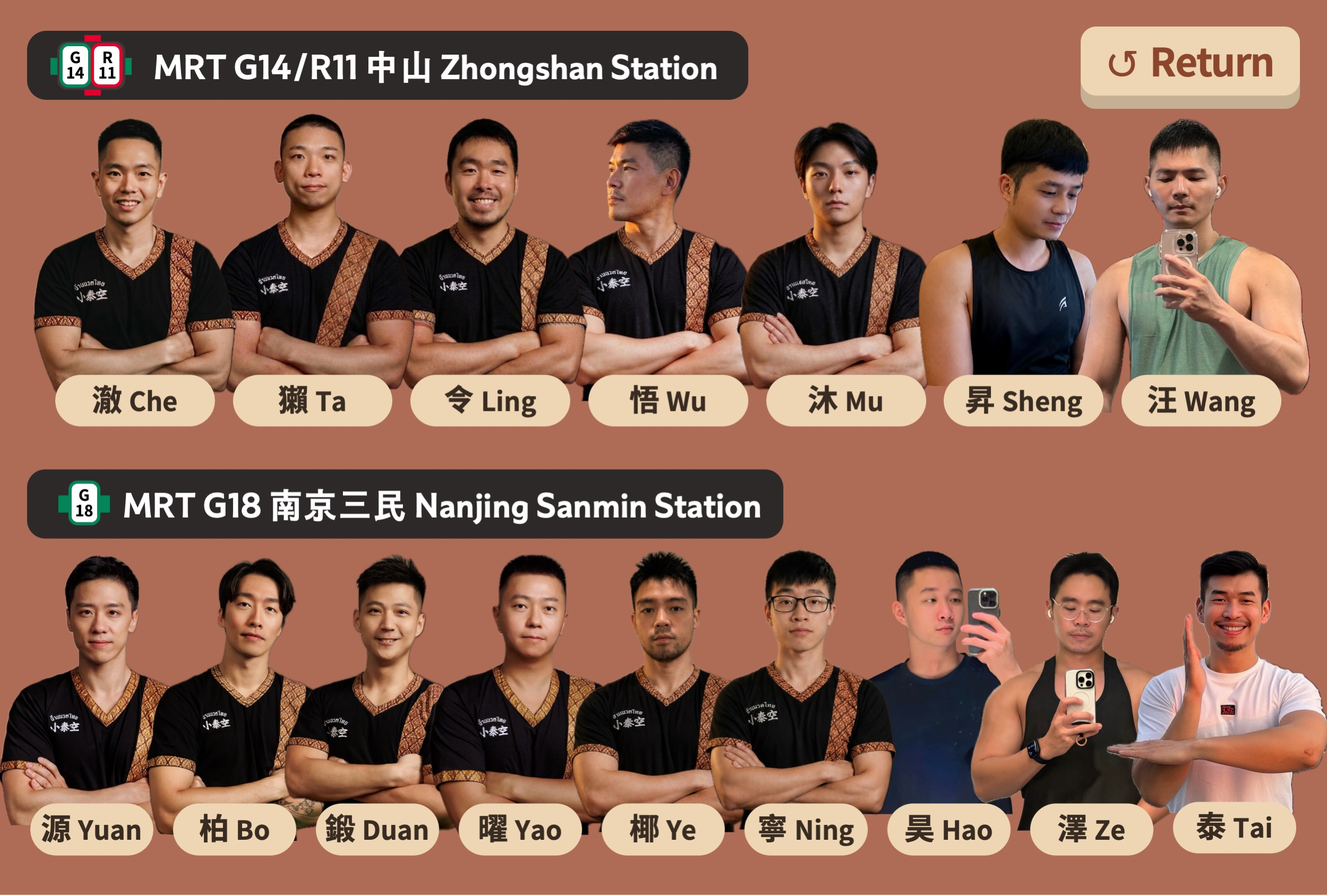
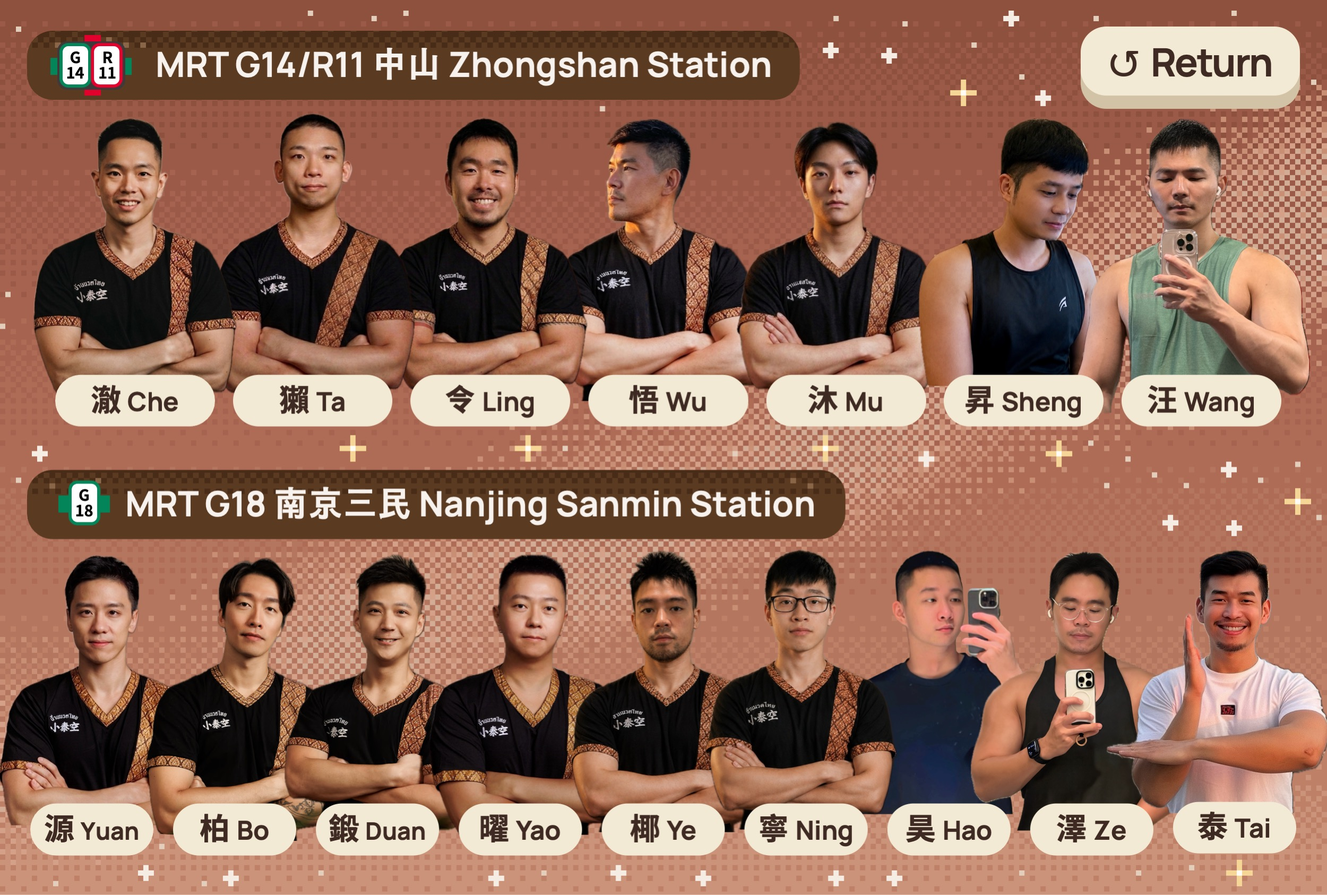
2026-11-23 儀表板新配色 v11：空位儀表板大卡、分店按鈕移至底部
分店頁的非本店按鈕（灰色）改為切換到該分店分頁。

diff --git a/index.html b/index.html
@@ -59,11 +59,11 @@
 </head>
 <body>
 <div class="wrap">
-<div class="page" id="p1"><img src="page1.jpg" alt="主選單"><a class="spot" style="left:2.400%;top:13.345%;width:17.040%;height:34.045%" href="https://nick810303.github.io/spacethai_FAQ/" target="_blank" rel="noopener"></a><a class="spot" style="left:21.840%;top:13.286%;width:17.040%;height:34.045%" href="https://line.me/R/oaMessage/%40270vnkfr/?%E5%84%AA%E6%83%A0%E6%87%B6%E4%BA%BA%E5%8C%85" data-msg="優惠懶人包" title="優惠懶人包"></a><a class="spot" style="left:41.120%;top:13.464%;width:17.040%;height:34.045%" href="https://line.me/R/oaMessage/%40270vnkfr/?%E6%9C%8D%E5%8B%99%E9%A0%85%E7%9B%AE" data-msg="服務項目" title="服務項目"></a><a class="spot" style="left:60.560%;top:13.286%;width:17.040%;height:34.045%" href="https://line.me/R/oaMessage/%40270vnkfr/?%E9%A0%90%E7%B4%84%E9%A0%88%E7%9F%A5" data-msg="預約須知" title="預約須知"></a><a class="spot" style="left:80.120%;top:13.286%;width:17.040%;height:34.045%" href="https://line.me/R/oaMessage/%40270vnkfr/?%E9%97%9C%E6%96%BC%E5%B0%8F%E6%B3%B0%E7%A9%BA" data-msg="關於小泰空" title="關於小泰空"></a><a class="spot" style="left:2.560%;top:50.652%;width:18.240%;height:12.218%" href="https://liff.line.me/2007603682-rDEPkdA2/a33MS6uxvrwXxin2jHTk4N/record" target="_blank" rel="noopener"></a><a class="spot" style="left:20.560%;top:50.474%;width:18.240%;height:12.218%" href="https://nick810303.github.io/spacethai_manual/?openExternalBrowser=1" target="_blank" rel="noopener"></a><a class="spot" style="left:11.480%;top:62.574%;width:27.400%;height:17.912%" href="https://liff.line.me/2007603682-rDEPkdA2/a33MS6uxvrwXxin2jHTk4N/menu" target="_blank" rel="noopener"></a><a class="spot" style="left:41.160%;top:50.119%;width:28.160%;height:32.444%" href="https://line.me/R/oaMessage/%40270vnkfr/?%E5%B0%8F%E6%B3%B0%E7%A9%BA%EF%BC%8E%E4%B8%AD%E5%B1%B1" data-msg="小泰空．中山" title="小泰空．中山"></a><a class="spot" style="left:69.280%;top:50.059%;width:27.480%;height:32.444%" href="https://line.me/R/oaMessage/%40270vnkfr/?%E5%B0%8F%E6%B3%B0%E7%A9%BA%EF%BC%8E%E5%8D%97%E4%BA%AC%E4%B8%89%E6%B0%91" data-msg="小泰空．南京三民" title="小泰空．南京三民"></a><a class="spot" style="left:0.000%;top:0.000%;width:29.080%;height:10.854%" href="#p1" onclick="show(1);return false" aria-label="切換頁面"></a><a class="spot" style="left:29.200%;top:0.000%;width:29.800%;height:10.854%" href="#p2" onclick="show(2);return false" aria-label="切換頁面"></a><a class="spot" style="left:58.840%;top:0.000%;width:29.720%;height:10.854%" href="#p3" onclick="show(3);return false" aria-label="切換頁面"></a><a class="spot" style="left:88.600%;top:0.000%;width:11.240%;height:10.854%" href="#p4" onclick="show(4);return false" aria-label="切換頁面"></a><a class="spot" style="left:20.080%;top:85.172%;width:76.760%;height:10.083%" href="https://liff.line.me/2009610906-9zraEtAy" target="_blank" rel="noopener"></a></div>
-<div class="page" id="p2"><img src="page2.jpg" alt="中山"><a class="spot" style="left:2.680%;top:12.337%;width:13.880%;height:35.706%" href="https://line.me/R/oaMessage/%40270vnkfr/?%E9%97%9C%E6%96%BC%E6%BE%88%E8%80%81%E5%B8%AB" data-msg="關於澈老師" title="關於澈老師"></a><a class="spot" style="left:16.680%;top:12.040%;width:12.280%;height:35.706%" href="https://line.me/R/oaMessage/%40270vnkfr/?%E9%97%9C%E6%96%BC%E7%8D%BA%E8%80%81%E5%B8%AB" data-msg="關於獺老師" title="關於獺老師"></a><a class="spot" style="left:29.240%;top:12.100%;width:13.120%;height:35.706%" href="https://line.me/R/oaMessage/%40270vnkfr/?%E9%97%9C%E6%96%BC%E4%BB%A4%E8%80%81%E5%B8%AB" data-msg="關於令老師" title="關於令老師"></a><a class="spot" style="left:42.400%;top:12.040%;width:13.120%;height:35.706%" href="https://line.me/R/oaMessage/%40270vnkfr/?%E9%97%9C%E6%96%BC%E6%82%9F%E8%80%81%E5%B8%AB" data-msg="關於悟老師" title="關於悟老師"></a><a class="spot" style="left:55.400%;top:11.862%;width:13.120%;height:35.706%" href="https://line.me/R/oaMessage/%40270vnkfr/?%E9%97%9C%E6%96%BC%E6%B2%90%E8%80%81%E5%B8%AB" data-msg="關於沐老師" title="關於沐老師"></a><a class="spot" style="left:2.560%;top:50.652%;width:18.240%;height:12.218%" href="https://liff.line.me/2007603682-rDEPkdA2/a33MS6uxvrwXxin2jHTk4N/record" target="_blank" rel="noopener"></a><a class="spot" style="left:20.560%;top:50.474%;width:18.240%;height:12.218%" href="https://nick810303.github.io/spacethai_manual/?openExternalBrowser=1" target="_blank" rel="noopener"></a><a class="spot" style="left:11.480%;top:62.574%;width:27.400%;height:17.912%" href="https://liff.line.me/2007603682-rDEPkdA2/a33MS6uxvrwXxin2jHTk4N/menu" target="_blank" rel="noopener"></a><a class="spot" style="left:41.160%;top:50.119%;width:28.160%;height:32.444%" href="https://line.me/R/oaMessage/%40270vnkfr/?%E5%B0%8F%E6%B3%B0%E7%A9%BA%EF%BC%8E%E4%B8%AD%E5%B1%B1" data-msg="小泰空．中山" title="小泰空．中山"></a><a class="spot" style="left:0.000%;top:0.000%;width:29.080%;height:10.854%" href="#p1" onclick="show(1);return false" aria-label="切換頁面"></a><a class="spot" style="left:29.200%;top:0.000%;width:29.800%;height:10.854%" href="#p2" onclick="show(2);return false" aria-label="切換頁面"></a><a class="spot" style="left:58.840%;top:0.000%;width:29.720%;height:10.854%" href="#p3" onclick="show(3);return false" aria-label="切換頁面"></a><a class="spot" style="left:88.600%;top:0.000%;width:11.240%;height:10.854%" href="#p4" onclick="show(4);return false" aria-label="切換頁面"></a><a class="spot" style="left:20.080%;top:85.172%;width:76.760%;height:10.083%" href="https://liff.line.me/2009610906-9zraEtAy" target="_blank" rel="noopener"></a><a class="spot" style="left:68.720%;top:11.862%;width:14.760%;height:35.587%" href="https://line.me/R/oaMessage/%40270vnkfr/?%E9%97%9C%E6%96%BC%E6%98%87%E8%80%81%E5%B8%AB" data-msg="關於昇老師" title="關於昇老師"></a><a class="spot" style="left:83.640%;top:11.922%;width:14.760%;height:35.587%" href="https://line.me/R/oaMessage/%40270vnkfr/?%E9%97%9C%E6%96%BC%E6%B1%AA%E8%80%81%E5%B8%AB" data-msg="關於汪老師" title="關於汪老師"></a></div>
-<div class="page" id="p3"><img src="page3.jpg" alt="南京三民"><a class="spot" style="left:0.280%;top:11.981%;width:12.160%;height:35.706%" href="https://line.me/R/oaMessage/%40270vnkfr/?%E9%97%9C%E6%96%BC%E6%BA%90%E8%80%81%E5%B8%AB" data-msg="關於源老師" title="關於源老師"></a><a class="spot" style="left:12.440%;top:12.040%;width:10.680%;height:35.706%" href="https://line.me/R/oaMessage/%40270vnkfr/?%E9%97%9C%E6%96%BC%E6%9F%8F%E8%80%81%E5%B8%AB" data-msg="關於柏老師" title="關於柏老師"></a><a class="spot" style="left:23.320%;top:12.278%;width:10.240%;height:35.706%" href="https://line.me/R/oaMessage/%40270vnkfr/?%E9%97%9C%E6%96%BC%E9%8D%9B%E8%80%81%E5%B8%AB" data-msg="關於鍛老師" title="關於鍛老師"></a><a class="spot" style="left:33.800%;top:12.100%;width:10.600%;height:35.706%" href="https://line.me/R/oaMessage/%40270vnkfr/?%E9%97%9C%E6%96%BC%E6%9B%9C%E8%80%81%E5%B8%AB" data-msg="關於曜老師" title="關於曜老師"></a><a class="spot" style="left:44.600%;top:11.862%;width:10.640%;height:35.706%" href="https://line.me/R/oaMessage/%40270vnkfr/?%E9%97%9C%E6%96%BC%E6%A4%B0%E8%80%81%E5%B8%AB" data-msg="關於椰老師" title="關於椰老師"></a><a class="spot" style="left:55.360%;top:11.922%;width:10.600%;height:35.706%" href="https://line.me/R/oaMessage/%40270vnkfr/?%E9%97%9C%E6%96%BC%E5%AF%A7%E8%80%81%E5%B8%AB" data-msg="關於寧老師" title="關於寧老師"></a><a class="spot" style="left:66.160%;top:11.684%;width:10.520%;height:35.706%" href="https://line.me/R/oaMessage/%40270vnkfr/?%E9%97%9C%E6%96%BC%E6%98%8A%E8%80%81%E5%B8%AB" data-msg="關於昊老師" title="關於昊老師"></a><a class="spot" style="left:2.560%;top:50.652%;width:18.240%;height:12.218%" href="https://liff.line.me/2007603682-rDEPkdA2/a33MS6uxvrwXxin2jHTk4N/record" target="_blank" rel="noopener"></a><a class="spot" style="left:20.560%;top:50.474%;width:18.240%;height:12.218%" href="https://nick810303.github.io/spacethai_manual/?openExternalBrowser=1" target="_blank" rel="noopener"></a><a class="spot" style="left:11.480%;top:62.574%;width:27.400%;height:17.912%" href="https://liff.line.me/2007603682-rDEPkdA2/a33MS6uxvrwXxin2jHTk4N/menu" target="_blank" rel="noopener"></a><a class="spot" style="left:69.000%;top:50.237%;width:28.160%;height:32.444%" href="https://line.me/R/oaMessage/%40270vnkfr/?%E5%B0%8F%E6%B3%B0%E7%A9%BA%EF%BC%8E%E5%8D%97%E4%BA%AC%E4%B8%89%E6%B0%91" data-msg="小泰空．南京三民" title="小泰空．南京三民"></a><a class="spot" style="left:0.000%;top:0.000%;width:29.080%;height:10.854%" href="#p1" onclick="show(1);return false" aria-label="切換頁面"></a><a class="spot" style="left:29.200%;top:0.000%;width:29.800%;height:10.854%" href="#p2" onclick="show(2);return false" aria-label="切換頁面"></a><a class="spot" style="left:58.840%;top:0.000%;width:29.720%;height:10.854%" href="#p3" onclick="show(3);return false" aria-label="切換頁面"></a><a class="spot" style="left:88.600%;top:0.000%;width:11.240%;height:10.854%" href="#p4" onclick="show(4);return false" aria-label="切換頁面"></a><a class="spot" style="left:77.000%;top:11.329%;width:10.360%;height:35.884%" href="https://line.me/R/oaMessage/%40270vnkfr/?%E9%97%9C%E6%96%BC%E6%BE%A4%E8%80%81%E5%B8%AB" data-msg="關於澤老師" title="關於澤老師"></a><a class="spot" style="left:87.640%;top:11.151%;width:11.920%;height:35.884%" href="https://line.me/R/oaMessage/%40270vnkfr/?%E9%97%9C%E6%96%BC%E6%B3%B0%E8%80%81%E5%B8%AB" data-msg="關於泰老師" title="關於泰老師"></a><a class="spot" style="left:20.680%;top:85.172%;width:76.760%;height:10.083%" href="https://liff.line.me/2009610906-9zraEtAy" target="_blank" rel="noopener"></a></div>
-<div class="page" id="p4"><img src="page4.jpg" alt="English"><a class="spot" style="left:2.400%;top:13.345%;width:17.040%;height:34.045%" href="https://nick810303.github.io/spacethai_FAQ/?lang=en" target="_blank" rel="noopener"></a><a class="spot" style="left:21.840%;top:13.286%;width:17.040%;height:34.045%" href="https://line.me/R/oaMessage/%40270vnkfr/?Savings" data-msg="Savings" title="Savings"></a><a class="spot" style="left:41.120%;top:13.464%;width:17.040%;height:34.045%" href="https://line.me/R/oaMessage/%40270vnkfr/?Service" data-msg="Service" title="Service"></a><a class="spot" style="left:60.560%;top:13.286%;width:17.040%;height:34.045%" href="#p5" onclick="show(5);return false" aria-label="切換頁面"></a><a class="spot" style="left:80.120%;top:13.286%;width:17.040%;height:34.045%" href="https://line.me/R/oaMessage/%40270vnkfr/?About" data-msg="About" title="About"></a><a class="spot" style="left:2.560%;top:50.652%;width:18.240%;height:12.218%" href="https://liff.line.me/2007603682-rDEPkdA2/a33MS6uxvrwXxin2jHTk4N/record" target="_blank" rel="noopener"></a><a class="spot" style="left:20.560%;top:50.474%;width:18.240%;height:12.218%" href="https://nick810303.github.io/spacethai_manual/?lang=en&amp;openExternalBrowser=1" target="_blank" rel="noopener"></a><a class="spot" style="left:11.480%;top:62.574%;width:27.400%;height:17.912%" href="https://liff.line.me/2007603682-rDEPkdA2/a33MS6uxvrwXxin2jHTk4N/menu" target="_blank" rel="noopener"></a><a class="spot" style="left:41.160%;top:50.237%;width:28.160%;height:32.444%" href="https://line.me/R/oaMessage/%40270vnkfr/?Zhongshan" data-msg="Zhongshan" title="Zhongshan"></a><a class="spot" style="left:69.200%;top:50.178%;width:27.480%;height:32.444%" href="https://line.me/R/oaMessage/%40270vnkfr/?Nanjing%20Sanmin" data-msg="Nanjing Sanmin" title="Nanjing Sanmin"></a><a class="spot" style="left:0.000%;top:0.000%;width:29.080%;height:10.854%" href="#p1" onclick="show(1);return false" aria-label="切換頁面"></a><a class="spot" style="left:29.200%;top:0.000%;width:29.800%;height:10.854%" href="#p2" onclick="show(2);return false" aria-label="切換頁面"></a><a class="spot" style="left:58.840%;top:0.000%;width:29.720%;height:10.854%" href="#p3" onclick="show(3);return false" aria-label="切換頁面"></a><a class="spot" style="left:88.600%;top:0.000%;width:11.240%;height:10.854%" href="#p4" onclick="show(4);return false" aria-label="切換頁面"></a></div>
-<div class="page" id="p5"><img src="page5.jpg" alt="Team_en"><a class="spot" style="left:1.360%;top:1.542%;width:56.120%;height:11.507%" href="https://line.me/R/oaMessage/%40270vnkfr/?Zhongshan" data-msg="Zhongshan" title="Zhongshan"></a><a class="spot" style="left:1.320%;top:50.178%;width:58.920%;height:11.507%" href="https://line.me/R/oaMessage/%40270vnkfr/?Nanjing%20Sanmin" data-msg="Nanjing Sanmin" title="Nanjing Sanmin"></a><a class="spot" style="left:2.920%;top:13.108%;width:13.880%;height:35.706%" href="https://line.me/R/oaMessage/%40270vnkfr/?%E9%97%9C%E6%96%BC%E6%BE%88%E8%80%81%E5%B8%AB" data-msg="關於澈老師" title="關於澈老師"></a><a class="spot" style="left:16.920%;top:13.286%;width:12.280%;height:35.706%" href="https://line.me/R/oaMessage/%40270vnkfr/?%E9%97%9C%E6%96%BC%E7%8D%BA%E8%80%81%E5%B8%AB" data-msg="關於獺老師" title="關於獺老師"></a><a class="spot" style="left:29.160%;top:13.108%;width:13.120%;height:35.706%" href="https://line.me/R/oaMessage/%40270vnkfr/?%E9%97%9C%E6%96%BC%E4%BB%A4%E8%80%81%E5%B8%AB" data-msg="關於令老師" title="關於令老師"></a><a class="spot" style="left:42.400%;top:13.167%;width:13.120%;height:35.706%" href="https://line.me/R/oaMessage/%40270vnkfr/?%E9%97%9C%E6%96%BC%E6%82%9F%E8%80%81%E5%B8%AB" data-msg="關於悟老師" title="關於悟老師"></a><a class="spot" style="left:55.560%;top:13.227%;width:13.120%;height:35.706%" href="https://line.me/R/oaMessage/%40270vnkfr/?%E9%97%9C%E6%96%BC%E6%B2%90%E8%80%81%E5%B8%AB" data-msg="關於沐老師" title="關於沐老師"></a><a class="spot" style="left:69.000%;top:13.464%;width:13.920%;height:35.706%" href="https://line.me/R/oaMessage/%40270vnkfr/?%E9%97%9C%E6%96%BC%E6%98%87%E8%80%81%E5%B8%AB" data-msg="關於昇老師" title="關於昇老師"></a><a class="spot" style="left:83.120%;top:13.582%;width:13.920%;height:35.706%" href="https://line.me/R/oaMessage/%40270vnkfr/?%E9%97%9C%E6%96%BC%E6%B1%AA%E8%80%81%E5%B8%AB" data-msg="關於汪老師" title="關於汪老師"></a><a class="spot" style="left:0.680%;top:62.218%;width:11.560%;height:35.706%" href="https://line.me/R/oaMessage/%40270vnkfr/?%E9%97%9C%E6%96%BC%E6%BA%90%E8%80%81%E5%B8%AB" data-msg="關於源老師" title="關於源老師"></a><a class="spot" style="left:12.200%;top:62.278%;width:11.280%;height:35.706%" href="https://line.me/R/oaMessage/%40270vnkfr/?%E9%97%9C%E6%96%BC%E6%9F%8F%E8%80%81%E5%B8%AB" data-msg="關於柏老師" title="關於柏老師"></a><a class="spot" style="left:23.520%;top:61.922%;width:10.160%;height:35.706%" href="https://line.me/R/oaMessage/%40270vnkfr/?%E9%97%9C%E6%96%BC%E9%8D%9B%E8%80%81%E5%B8%AB" data-msg="關於鍛老師" title="關於鍛老師"></a><a class="spot" style="left:33.760%;top:61.744%;width:10.600%;height:35.706%" href="https://line.me/R/oaMessage/%40270vnkfr/?%E9%97%9C%E6%96%BC%E6%9B%9C%E8%80%81%E5%B8%AB" data-msg="關於曜老師" title="關於曜老師"></a><a class="spot" style="left:44.520%;top:61.684%;width:10.760%;height:35.706%" href="https://line.me/R/oaMessage/%40270vnkfr/?%E9%97%9C%E6%96%BC%E6%A4%B0%E8%80%81%E5%B8%AB" data-msg="關於椰老師" title="關於椰老師"></a><a class="spot" style="left:55.320%;top:61.447%;width:10.800%;height:35.706%" href="https://line.me/R/oaMessage/%40270vnkfr/?%E9%97%9C%E6%96%BC%E5%AF%A7%E8%80%81%E5%B8%AB" data-msg="關於寧老師" title="關於寧老師"></a><a class="spot" style="left:78.720%;top:0.000%;width:21.280%;height:13.760%" href="#p4" onclick="show(4);return false" aria-label="切換頁面"></a><a class="spot" style="left:66.400%;top:61.566%;width:10.360%;height:35.409%" href="https://line.me/R/oaMessage/%40270vnkfr/?%E9%97%9C%E6%96%BC%E6%98%8A%E8%80%81%E5%B8%AB" data-msg="關於昊老師" title="關於昊老師"></a><a class="spot" style="left:77.040%;top:61.507%;width:10.360%;height:35.409%" href="https://line.me/R/oaMessage/%40270vnkfr/?%E9%97%9C%E6%96%BC%E6%BE%A4%E8%80%81%E5%B8%AB" data-msg="關於澤老師" title="關於澤老師"></a><a class="spot" style="left:87.920%;top:61.329%;width:10.360%;height:35.409%" href="https://line.me/R/oaMessage/%40270vnkfr/?%E9%97%9C%E6%96%BC%E6%B3%B0%E8%80%81%E5%B8%AB" data-msg="關於泰老師" title="關於泰老師"></a></div>
+<div class="page" id="p1"><img src="page1.jpg" alt="主選單"><a class="spot" style="left:2.400%;top:13.345%;width:17.040%;height:34.045%" href="https://nick810303.github.io/spacethai_FAQ/" target="_blank" rel="noopener"></a><a class="spot" style="left:21.840%;top:13.286%;width:17.040%;height:34.045%" href="https://line.me/R/oaMessage/%40270vnkfr/?%E5%84%AA%E6%83%A0%E6%87%B6%E4%BA%BA%E5%8C%85" data-msg="優惠懶人包" title="優惠懶人包"></a><a class="spot" style="left:41.120%;top:13.464%;width:17.040%;height:34.045%" href="https://line.me/R/oaMessage/%40270vnkfr/?%E6%9C%8D%E5%8B%99%E9%A0%85%E7%9B%AE" data-msg="服務項目" title="服務項目"></a><a class="spot" style="left:60.560%;top:13.286%;width:17.040%;height:34.045%" href="https://line.me/R/oaMessage/%40270vnkfr/?%E9%A0%90%E7%B4%84%E9%A0%88%E7%9F%A5" data-msg="預約須知" title="預約須知"></a><a class="spot" style="left:80.120%;top:13.286%;width:17.040%;height:34.045%" href="https://line.me/R/oaMessage/%40270vnkfr/?%E9%97%9C%E6%96%BC%E5%B0%8F%E6%B3%B0%E7%A9%BA" data-msg="關於小泰空" title="關於小泰空"></a><a class="spot" style="left:2.560%;top:50.652%;width:18.240%;height:12.218%" href="https://liff.line.me/2007603682-rDEPkdA2/a33MS6uxvrwXxin2jHTk4N/record" target="_blank" rel="noopener"></a><a class="spot" style="left:20.560%;top:50.474%;width:18.240%;height:12.218%" href="https://nick810303.github.io/spacethai_manual/?openExternalBrowser=1" target="_blank" rel="noopener"></a><a class="spot" style="left:11.480%;top:62.574%;width:27.400%;height:17.912%" href="https://liff.line.me/2007603682-rDEPkdA2/a33MS6uxvrwXxin2jHTk4N/menu" target="_blank" rel="noopener"></a><a class="spot" style="left:0.000%;top:0.000%;width:29.080%;height:10.854%" href="#p1" onclick="show(1);return false" aria-label="切換頁面"></a><a class="spot" style="left:29.200%;top:0.000%;width:29.800%;height:10.854%" href="#p2" onclick="show(2);return false" aria-label="切換頁面"></a><a class="spot" style="left:58.840%;top:0.000%;width:29.720%;height:10.854%" href="#p3" onclick="show(3);return false" aria-label="切換頁面"></a><a class="spot" style="left:88.600%;top:0.000%;width:11.240%;height:10.854%" href="#p4" onclick="show(4);return false" aria-label="切換頁面"></a><a class="spot" style="left:41.600%;top:49.585%;width:55.360%;height:28.351%" href="https://liff.line.me/2009610906-9zraEtAy" target="_blank" rel="noopener"></a><a class="spot" style="left:22.240%;top:81.613%;width:36.080%;height:13.760%" href="https://line.me/R/oaMessage/%40270vnkfr/?%E5%B0%8F%E6%B3%B0%E7%A9%BA%EF%BC%8E%E4%B8%AD%E5%B1%B1" data-msg="小泰空．中山" title="小泰空．中山"></a><a class="spot" style="left:60.880%;top:81.613%;width:36.080%;height:13.760%" href="https://line.me/R/oaMessage/%40270vnkfr/?%E5%B0%8F%E6%B3%B0%E7%A9%BA%EF%BC%8E%E5%8D%97%E4%BA%AC%E4%B8%89%E6%B0%91" data-msg="小泰空．南京三民" title="小泰空．南京三民"></a></div>
+<div class="page" id="p2"><img src="page2.jpg" alt="中山"><a class="spot" style="left:2.680%;top:12.337%;width:13.880%;height:35.706%" href="https://line.me/R/oaMessage/%40270vnkfr/?%E9%97%9C%E6%96%BC%E6%BE%88%E8%80%81%E5%B8%AB" data-msg="關於澈老師" title="關於澈老師"></a><a class="spot" style="left:16.680%;top:12.040%;width:12.280%;height:35.706%" href="https://line.me/R/oaMessage/%40270vnkfr/?%E9%97%9C%E6%96%BC%E7%8D%BA%E8%80%81%E5%B8%AB" data-msg="關於獺老師" title="關於獺老師"></a><a class="spot" style="left:29.240%;top:12.100%;width:13.120%;height:35.706%" href="https://line.me/R/oaMessage/%40270vnkfr/?%E9%97%9C%E6%96%BC%E4%BB%A4%E8%80%81%E5%B8%AB" data-msg="關於令老師" title="關於令老師"></a><a class="spot" style="left:42.400%;top:12.040%;width:13.120%;height:35.706%" href="https://line.me/R/oaMessage/%40270vnkfr/?%E9%97%9C%E6%96%BC%E6%82%9F%E8%80%81%E5%B8%AB" data-msg="關於悟老師" title="關於悟老師"></a><a class="spot" style="left:55.400%;top:11.862%;width:13.120%;height:35.706%" href="https://line.me/R/oaMessage/%40270vnkfr/?%E9%97%9C%E6%96%BC%E6%B2%90%E8%80%81%E5%B8%AB" data-msg="關於沐老師" title="關於沐老師"></a><a class="spot" style="left:2.560%;top:50.652%;width:18.240%;height:12.218%" href="https://liff.line.me/2007603682-rDEPkdA2/a33MS6uxvrwXxin2jHTk4N/record" target="_blank" rel="noopener"></a><a class="spot" style="left:20.560%;top:50.474%;width:18.240%;height:12.218%" href="https://nick810303.github.io/spacethai_manual/?openExternalBrowser=1" target="_blank" rel="noopener"></a><a class="spot" style="left:11.480%;top:62.574%;width:27.400%;height:17.912%" href="https://liff.line.me/2007603682-rDEPkdA2/a33MS6uxvrwXxin2jHTk4N/menu" target="_blank" rel="noopener"></a><a class="spot" style="left:0.000%;top:0.000%;width:29.080%;height:10.854%" href="#p1" onclick="show(1);return false" aria-label="切換頁面"></a><a class="spot" style="left:29.200%;top:0.000%;width:29.800%;height:10.854%" href="#p2" onclick="show(2);return false" aria-label="切換頁面"></a><a class="spot" style="left:58.840%;top:0.000%;width:29.720%;height:10.854%" href="#p3" onclick="show(3);return false" aria-label="切換頁面"></a><a class="spot" style="left:88.600%;top:0.000%;width:11.240%;height:10.854%" href="#p4" onclick="show(4);return false" aria-label="切換頁面"></a><a class="spot" style="left:68.720%;top:11.862%;width:14.760%;height:35.587%" href="https://line.me/R/oaMessage/%40270vnkfr/?%E9%97%9C%E6%96%BC%E6%98%87%E8%80%81%E5%B8%AB" data-msg="關於昇老師" title="關於昇老師"></a><a class="spot" style="left:83.640%;top:11.922%;width:14.760%;height:35.587%" href="https://line.me/R/oaMessage/%40270vnkfr/?%E9%97%9C%E6%96%BC%E6%B1%AA%E8%80%81%E5%B8%AB" data-msg="關於汪老師" title="關於汪老師"></a><a class="spot" style="left:41.600%;top:49.585%;width:55.360%;height:28.351%" href="https://liff.line.me/2009610906-9zraEtAy" target="_blank" rel="noopener"></a><a class="spot" style="left:22.240%;top:81.613%;width:36.080%;height:13.760%" href="https://line.me/R/oaMessage/%40270vnkfr/?%E5%B0%8F%E6%B3%B0%E7%A9%BA%EF%BC%8E%E4%B8%AD%E5%B1%B1" data-msg="小泰空．中山" title="小泰空．中山"></a><a class="spot" style="left:60.880%;top:81.613%;width:36.080%;height:13.760%" href="#p3" onclick="show(3);return false" aria-label="切換頁面"></a></div>
+<div class="page" id="p3"><img src="page3.jpg" alt="南京三民"><a class="spot" style="left:0.280%;top:11.981%;width:12.160%;height:35.706%" href="https://line.me/R/oaMessage/%40270vnkfr/?%E9%97%9C%E6%96%BC%E6%BA%90%E8%80%81%E5%B8%AB" data-msg="關於源老師" title="關於源老師"></a><a class="spot" style="left:12.440%;top:12.040%;width:10.680%;height:35.706%" href="https://line.me/R/oaMessage/%40270vnkfr/?%E9%97%9C%E6%96%BC%E6%9F%8F%E8%80%81%E5%B8%AB" data-msg="關於柏老師" title="關於柏老師"></a><a class="spot" style="left:23.320%;top:12.278%;width:10.240%;height:35.706%" href="https://line.me/R/oaMessage/%40270vnkfr/?%E9%97%9C%E6%96%BC%E9%8D%9B%E8%80%81%E5%B8%AB" data-msg="關於鍛老師" title="關於鍛老師"></a><a class="spot" style="left:33.800%;top:12.100%;width:10.600%;height:35.706%" href="https://line.me/R/oaMessage/%40270vnkfr/?%E9%97%9C%E6%96%BC%E6%9B%9C%E8%80%81%E5%B8%AB" data-msg="關於曜老師" title="關於曜老師"></a><a class="spot" style="left:44.600%;top:11.862%;width:10.640%;height:35.706%" href="https://line.me/R/oaMessage/%40270vnkfr/?%E9%97%9C%E6%96%BC%E6%A4%B0%E8%80%81%E5%B8%AB" data-msg="關於椰老師" title="關於椰老師"></a><a class="spot" style="left:55.360%;top:11.922%;width:10.600%;height:35.706%" href="https://line.me/R/oaMessage/%40270vnkfr/?%E9%97%9C%E6%96%BC%E5%AF%A7%E8%80%81%E5%B8%AB" data-msg="關於寧老師" title="關於寧老師"></a><a class="spot" style="left:66.160%;top:11.684%;width:10.520%;height:35.706%" href="https://line.me/R/oaMessage/%40270vnkfr/?%E9%97%9C%E6%96%BC%E6%98%8A%E8%80%81%E5%B8%AB" data-msg="關於昊老師" title="關於昊老師"></a><a class="spot" style="left:2.560%;top:50.652%;width:18.240%;height:12.218%" href="https://liff.line.me/2007603682-rDEPkdA2/a33MS6uxvrwXxin2jHTk4N/record" target="_blank" rel="noopener"></a><a class="spot" style="left:20.560%;top:50.474%;width:18.240%;height:12.218%" href="https://nick810303.github.io/spacethai_manual/?openExternalBrowser=1" target="_blank" rel="noopener"></a><a class="spot" style="left:11.480%;top:62.574%;width:27.400%;height:17.912%" href="https://liff.line.me/2007603682-rDEPkdA2/a33MS6uxvrwXxin2jHTk4N/menu" target="_blank" rel="noopener"></a><a class="spot" style="left:0.000%;top:0.000%;width:29.080%;height:10.854%" href="#p1" onclick="show(1);return false" aria-label="切換頁面"></a><a class="spot" style="left:29.200%;top:0.000%;width:29.800%;height:10.854%" href="#p2" onclick="show(2);return false" aria-label="切換頁面"></a><a class="spot" style="left:58.840%;top:0.000%;width:29.720%;height:10.854%" href="#p3" onclick="show(3);return false" aria-label="切換頁面"></a><a class="spot" style="left:88.600%;top:0.000%;width:11.240%;height:10.854%" href="#p4" onclick="show(4);return false" aria-label="切換頁面"></a><a class="spot" style="left:77.000%;top:11.329%;width:10.360%;height:35.884%" href="https://line.me/R/oaMessage/%40270vnkfr/?%E9%97%9C%E6%96%BC%E6%BE%A4%E8%80%81%E5%B8%AB" data-msg="關於澤老師" title="關於澤老師"></a><a class="spot" style="left:87.640%;top:11.151%;width:11.920%;height:35.884%" href="https://line.me/R/oaMessage/%40270vnkfr/?%E9%97%9C%E6%96%BC%E6%B3%B0%E8%80%81%E5%B8%AB" data-msg="關於泰老師" title="關於泰老師"></a><a class="spot" style="left:41.600%;top:49.585%;width:55.360%;height:28.351%" href="https://liff.line.me/2009610906-9zraEtAy" target="_blank" rel="noopener"></a><a class="spot" style="left:22.240%;top:81.613%;width:36.080%;height:13.760%" href="#p2" onclick="show(2);return false" aria-label="切換頁面"></a><a class="spot" style="left:60.880%;top:81.613%;width:36.080%;height:13.760%" href="https://line.me/R/oaMessage/%40270vnkfr/?%E5%B0%8F%E6%B3%B0%E7%A9%BA%EF%BC%8E%E5%8D%97%E4%BA%AC%E4%B8%89%E6%B0%91" data-msg="小泰空．南京三民" title="小泰空．南京三民"></a></div>
+<div class="page" id="p4"><img src="page4.jpg" alt="English"><a class="spot" style="left:2.400%;top:13.345%;width:17.040%;height:34.045%" href="https://nick810303.github.io/spacethai_FAQ/?lang=en" target="_blank" rel="noopener"></a><a class="spot" style="left:21.840%;top:13.286%;width:17.040%;height:34.045%" href="https://line.me/R/oaMessage/%40270vnkfr/?Savings" data-msg="Savings" title="Savings"></a><a class="spot" style="left:41.120%;top:13.464%;width:17.040%;height:34.045%" href="https://line.me/R/oaMessage/%40270vnkfr/?Service" data-msg="Service" title="Service"></a><a class="spot" style="left:60.560%;top:13.286%;width:17.040%;height:34.045%" href="#p5" onclick="show(5);return false" aria-label="切換頁面"></a><a class="spot" style="left:80.120%;top:13.286%;width:17.040%;height:34.045%" href="https://line.me/R/oaMessage/%40270vnkfr/?About" data-msg="About" title="About"></a><a class="spot" style="left:2.560%;top:50.652%;width:18.240%;height:12.218%" href="https://liff.line.me/2007603682-rDEPkdA2/a33MS6uxvrwXxin2jHTk4N/record" target="_blank" rel="noopener"></a><a class="spot" style="left:20.560%;top:50.474%;width:18.240%;height:12.218%" href="https://nick810303.github.io/spacethai_manual/?lang=en&amp;openExternalBrowser=1" target="_blank" rel="noopener"></a><a class="spot" style="left:11.480%;top:62.574%;width:27.400%;height:17.912%" href="https://liff.line.me/2007603682-rDEPkdA2/a33MS6uxvrwXxin2jHTk4N/menu" target="_blank" rel="noopener"></a><a class="spot" style="left:0.000%;top:0.000%;width:29.080%;height:10.854%" href="#p1" onclick="show(1);return false" aria-label="切換頁面"></a><a class="spot" style="left:29.200%;top:0.000%;width:29.800%;height:10.854%" href="#p2" onclick="show(2);return false" aria-label="切換頁面"></a><a class="spot" style="left:58.840%;top:0.000%;width:29.720%;height:10.854%" href="#p3" onclick="show(3);return false" aria-label="切換頁面"></a><a class="spot" style="left:88.600%;top:0.000%;width:11.240%;height:10.854%" href="#p4" onclick="show(4);return false" aria-label="切換頁面"></a><a class="spot" style="left:41.600%;top:49.585%;width:55.360%;height:28.351%" href="https://liff.line.me/2009610906-9zraEtAy" target="_blank" rel="noopener"></a><a class="spot" style="left:22.240%;top:81.613%;width:36.080%;height:13.760%" href="https://line.me/R/oaMessage/%40270vnkfr/?Zhongshan" data-msg="Zhongshan" title="Zhongshan"></a><a class="spot" style="left:60.880%;top:81.613%;width:36.080%;height:13.760%" href="https://line.me/R/oaMessage/%40270vnkfr/?Nanjing%20Sanmin" data-msg="Nanjing Sanmin" title="Nanjing Sanmin"></a></div>
+<div class="page" id="p5"><img src="page5.jpg" alt="Team_en"><a class="spot" style="left:1.360%;top:1.542%;width:59.200%;height:11.507%" href="https://line.me/R/oaMessage/%40270vnkfr/?Zhongshan" data-msg="Zhongshan" title="Zhongshan"></a><a class="spot" style="left:1.320%;top:50.178%;width:62.800%;height:11.507%" href="https://line.me/R/oaMessage/%40270vnkfr/?Nanjing%20Sanmin" data-msg="Nanjing Sanmin" title="Nanjing Sanmin"></a><a class="spot" style="left:2.920%;top:13.108%;width:13.880%;height:35.706%" href="https://line.me/R/oaMessage/%40270vnkfr/?%E9%97%9C%E6%96%BC%E6%BE%88%E8%80%81%E5%B8%AB" data-msg="關於澈老師" title="關於澈老師"></a><a class="spot" style="left:16.920%;top:13.286%;width:12.280%;height:35.706%" href="https://line.me/R/oaMessage/%40270vnkfr/?%E9%97%9C%E6%96%BC%E7%8D%BA%E8%80%81%E5%B8%AB" data-msg="關於獺老師" title="關於獺老師"></a><a class="spot" style="left:29.160%;top:13.108%;width:13.120%;height:35.706%" href="https://line.me/R/oaMessage/%40270vnkfr/?%E9%97%9C%E6%96%BC%E4%BB%A4%E8%80%81%E5%B8%AB" data-msg="關於令老師" title="關於令老師"></a><a class="spot" style="left:42.400%;top:13.167%;width:13.120%;height:35.706%" href="https://line.me/R/oaMessage/%40270vnkfr/?%E9%97%9C%E6%96%BC%E6%82%9F%E8%80%81%E5%B8%AB" data-msg="關於悟老師" title="關於悟老師"></a><a class="spot" style="left:55.560%;top:13.227%;width:13.120%;height:35.706%" href="https://line.me/R/oaMessage/%40270vnkfr/?%E9%97%9C%E6%96%BC%E6%B2%90%E8%80%81%E5%B8%AB" data-msg="關於沐老師" title="關於沐老師"></a><a class="spot" style="left:69.000%;top:13.464%;width:13.920%;height:35.706%" href="https://line.me/R/oaMessage/%40270vnkfr/?%E9%97%9C%E6%96%BC%E6%98%87%E8%80%81%E5%B8%AB" data-msg="關於昇老師" title="關於昇老師"></a><a class="spot" style="left:83.120%;top:13.582%;width:13.920%;height:35.706%" href="https://line.me/R/oaMessage/%40270vnkfr/?%E9%97%9C%E6%96%BC%E6%B1%AA%E8%80%81%E5%B8%AB" data-msg="關於汪老師" title="關於汪老師"></a><a class="spot" style="left:0.680%;top:62.218%;width:11.560%;height:35.706%" href="https://line.me/R/oaMessage/%40270vnkfr/?%E9%97%9C%E6%96%BC%E6%BA%90%E8%80%81%E5%B8%AB" data-msg="關於源老師" title="關於源老師"></a><a class="spot" style="left:12.200%;top:62.278%;width:11.280%;height:35.706%" href="https://line.me/R/oaMessage/%40270vnkfr/?%E9%97%9C%E6%96%BC%E6%9F%8F%E8%80%81%E5%B8%AB" data-msg="關於柏老師" title="關於柏老師"></a><a class="spot" style="left:23.520%;top:61.922%;width:10.160%;height:35.706%" href="https://line.me/R/oaMessage/%40270vnkfr/?%E9%97%9C%E6%96%BC%E9%8D%9B%E8%80%81%E5%B8%AB" data-msg="關於鍛老師" title="關於鍛老師"></a><a class="spot" style="left:33.760%;top:61.744%;width:10.600%;height:35.706%" href="https://line.me/R/oaMessage/%40270vnkfr/?%E9%97%9C%E6%96%BC%E6%9B%9C%E8%80%81%E5%B8%AB" data-msg="關於曜老師" title="關於曜老師"></a><a class="spot" style="left:44.520%;top:61.684%;width:10.760%;height:35.706%" href="https://line.me/R/oaMessage/%40270vnkfr/?%E9%97%9C%E6%96%BC%E6%A4%B0%E8%80%81%E5%B8%AB" data-msg="關於椰老師" title="關於椰老師"></a><a class="spot" style="left:55.320%;top:61.447%;width:10.800%;height:35.706%" href="https://line.me/R/oaMessage/%40270vnkfr/?%E9%97%9C%E6%96%BC%E5%AF%A7%E8%80%81%E5%B8%AB" data-msg="關於寧老師" title="關於寧老師"></a><a class="spot" style="left:78.720%;top:0.000%;width:21.280%;height:13.760%" href="#p4" onclick="show(4);return false" aria-label="切換頁面"></a><a class="spot" style="left:66.400%;top:61.566%;width:10.360%;height:35.409%" href="https://line.me/R/oaMessage/%40270vnkfr/?%E9%97%9C%E6%96%BC%E6%98%8A%E8%80%81%E5%B8%AB" data-msg="關於昊老師" title="關於昊老師"></a><a class="spot" style="left:77.040%;top:61.507%;width:10.360%;height:35.409%" href="https://line.me/R/oaMessage/%40270vnkfr/?%E9%97%9C%E6%96%BC%E6%BE%A4%E8%80%81%E5%B8%AB" data-msg="關於澤老師" title="關於澤老師"></a><a class="spot" style="left:87.920%;top:61.329%;width:10.360%;height:35.409%" href="https://line.me/R/oaMessage/%40270vnkfr/?%E9%97%9C%E6%96%BC%E6%B3%B0%E8%80%81%E5%B8%AB" data-msg="關於泰老師" title="關於泰老師"></a></div>
 </div>
 <div id="toast"></div>
 <script>
